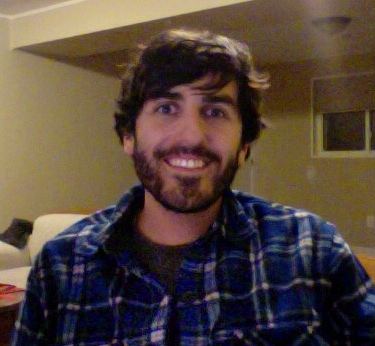
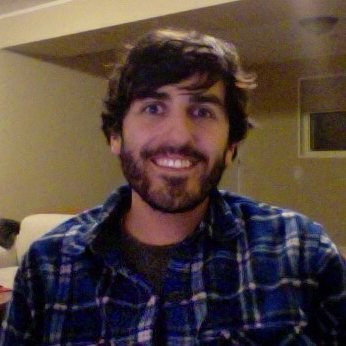
Fix arthur's picture. Fix FAQ alignment. Fix apply now caps. Remove placeholder text. Login-form is no longer sticky

diff --git a/app/assets/stylesheets/welcome.css.scss b/app/assets/stylesheets/welcome.css.scss
@@ -1680,8 +1680,7 @@ a {
     padding: 4px 10px;
     margin-top: 30px;
     text-align: center;
-    font-size: 1em;
-    text-transform: uppercase; }
+    font-size: 1em;}
     @media (min-width: 672px) {
       .button.cta {
         width: 275px;
@@ -1996,6 +1995,7 @@ footer {
             float: left; } }
 
 .login {
+  text-shadow: 1px 1px #000;
   .button{
     margin-top: 50px; }
   float: right;
@@ -2149,14 +2149,6 @@ footer {
     font-size: 1em; }
     .form .cancel:hover {
       background: #2b2b2b; }
-
-.login-form {
-  position: fixed;
-  right: 260px;
-  top: 79px;
-  z-index: 99;
-  background-color: rgba(0, 0, 0, 0.5);
-}
 
 .mission {
   background: white; }

diff --git a/app/assets/stylesheets/header.css.scss b/app/assets/stylesheets/header.css.scss
@@ -2,6 +2,10 @@
   float: right;
   margin-top: 30px;
 }
+@media (max-width: 672px) {
+  .login .button {
+    padding: 4px 15px;
+  } }
 
 
 .scrolling-header{
